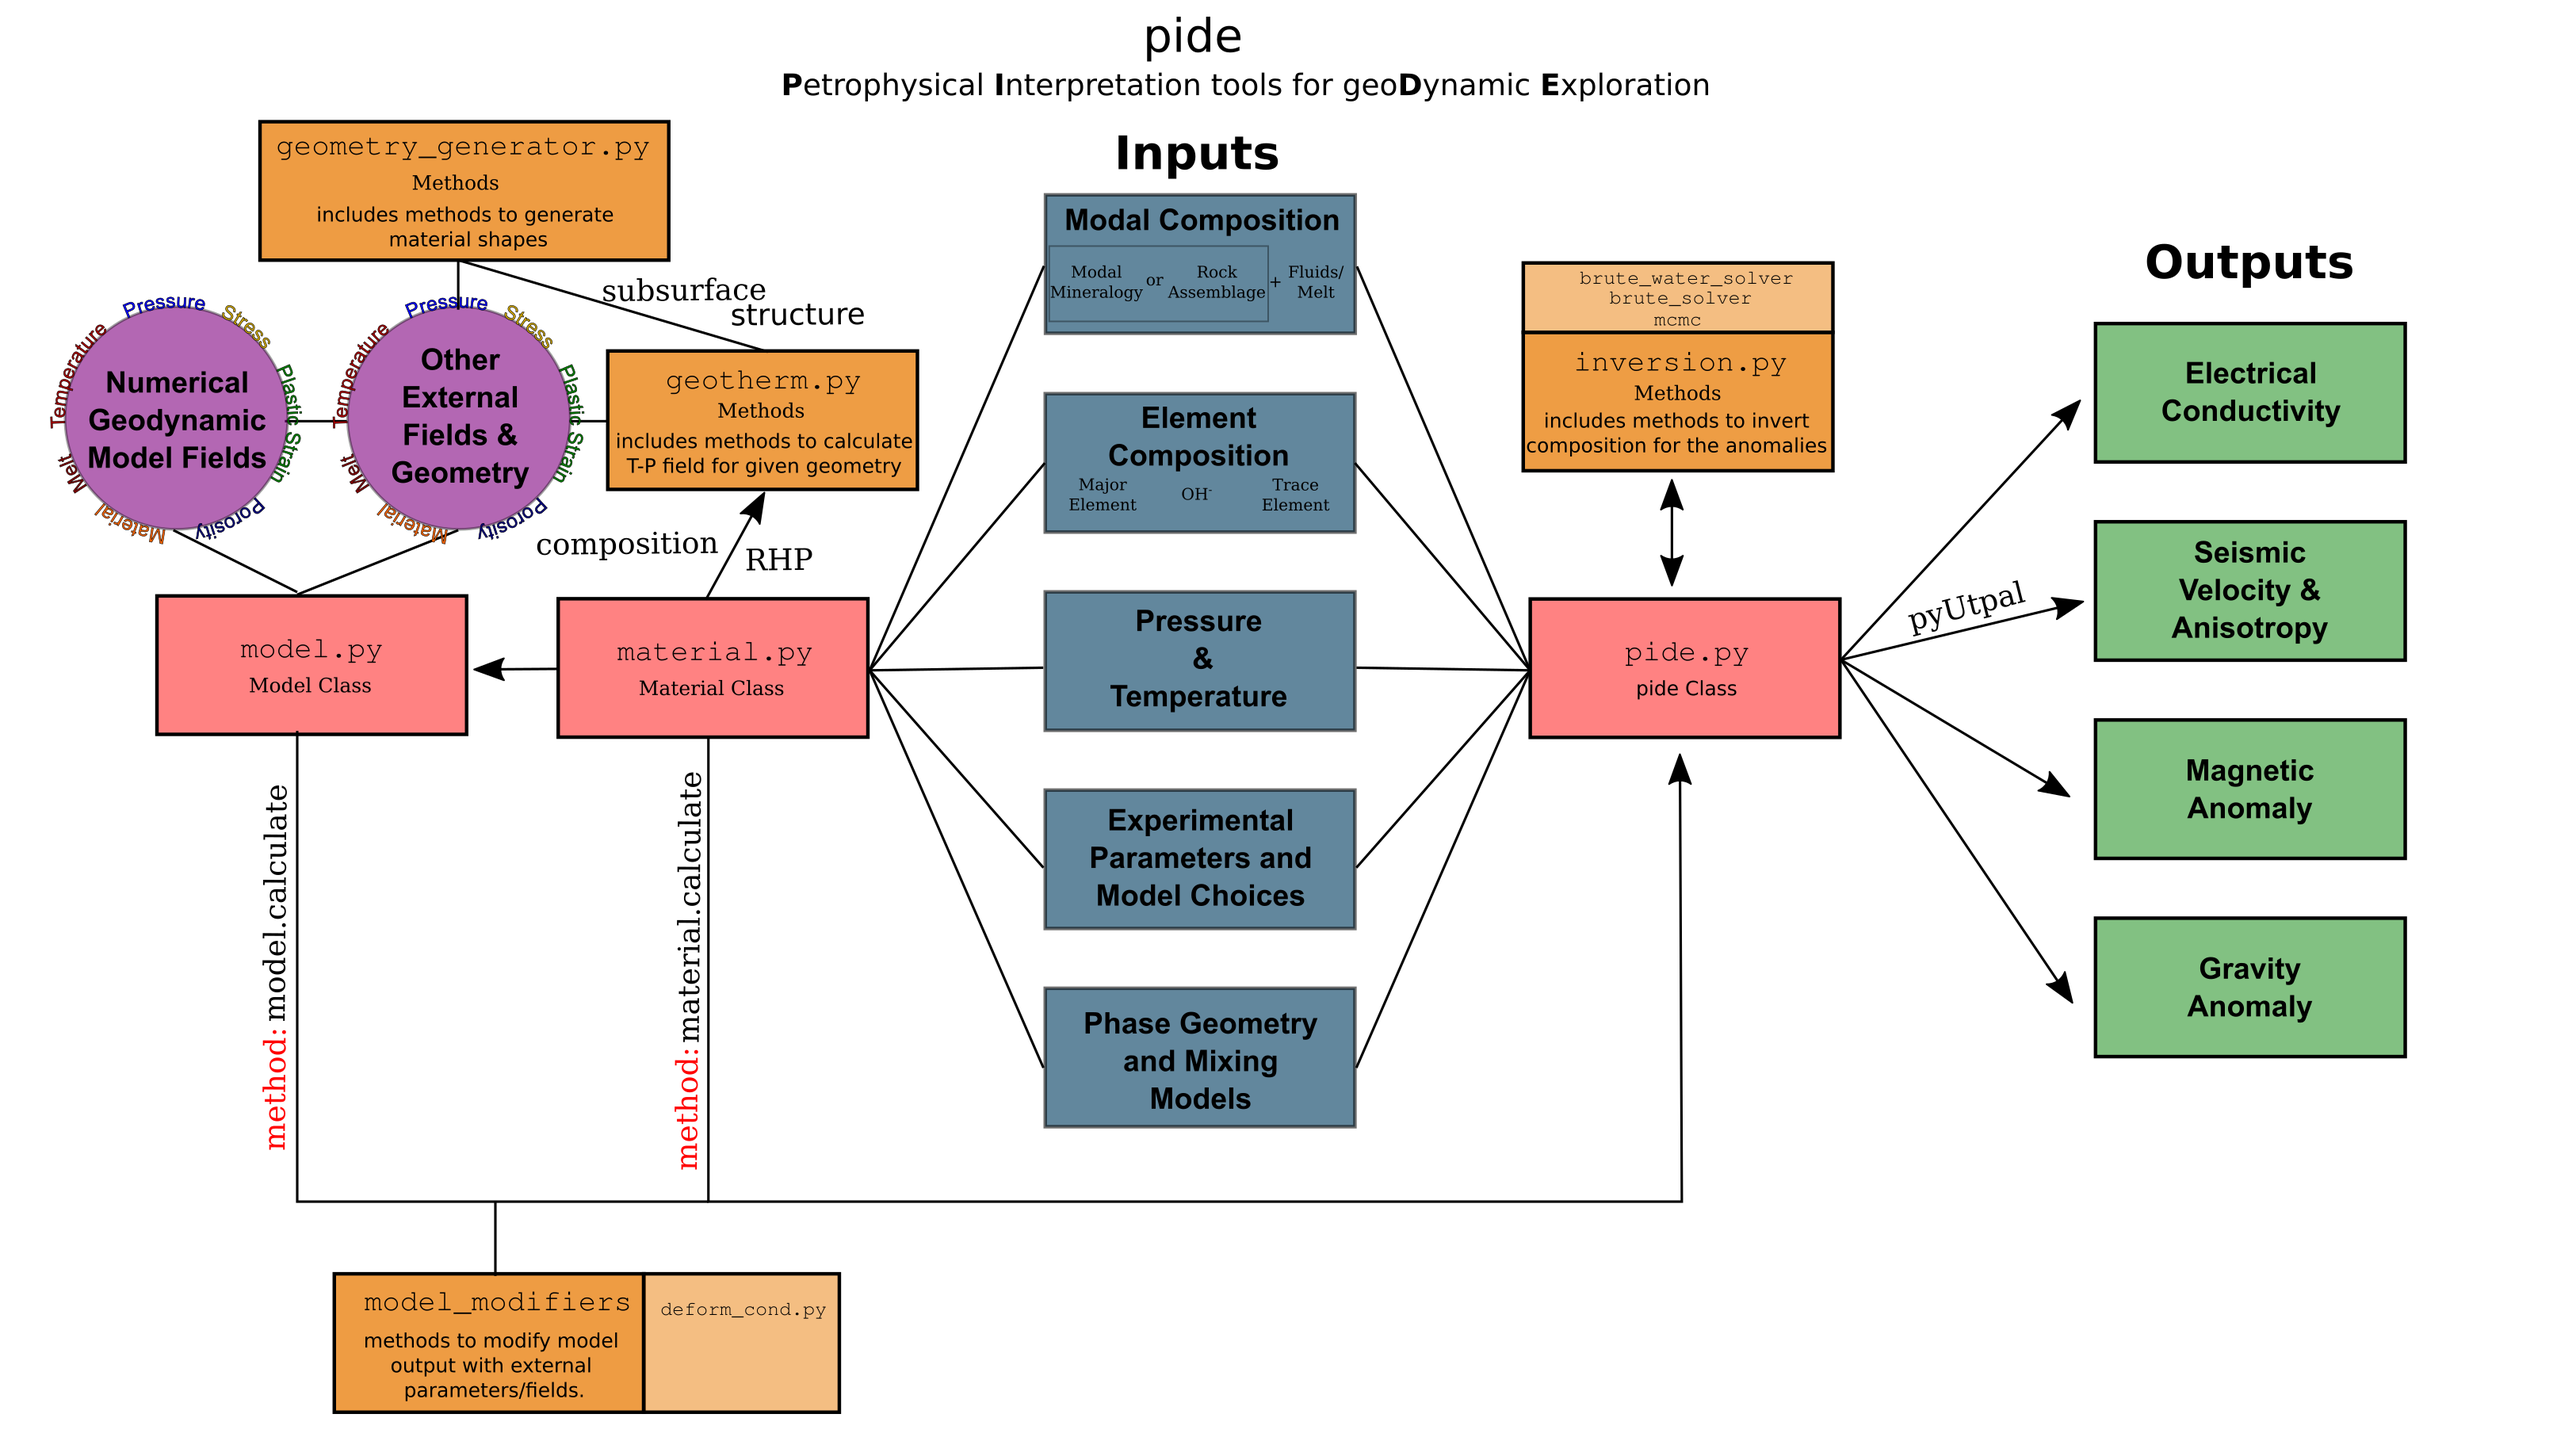
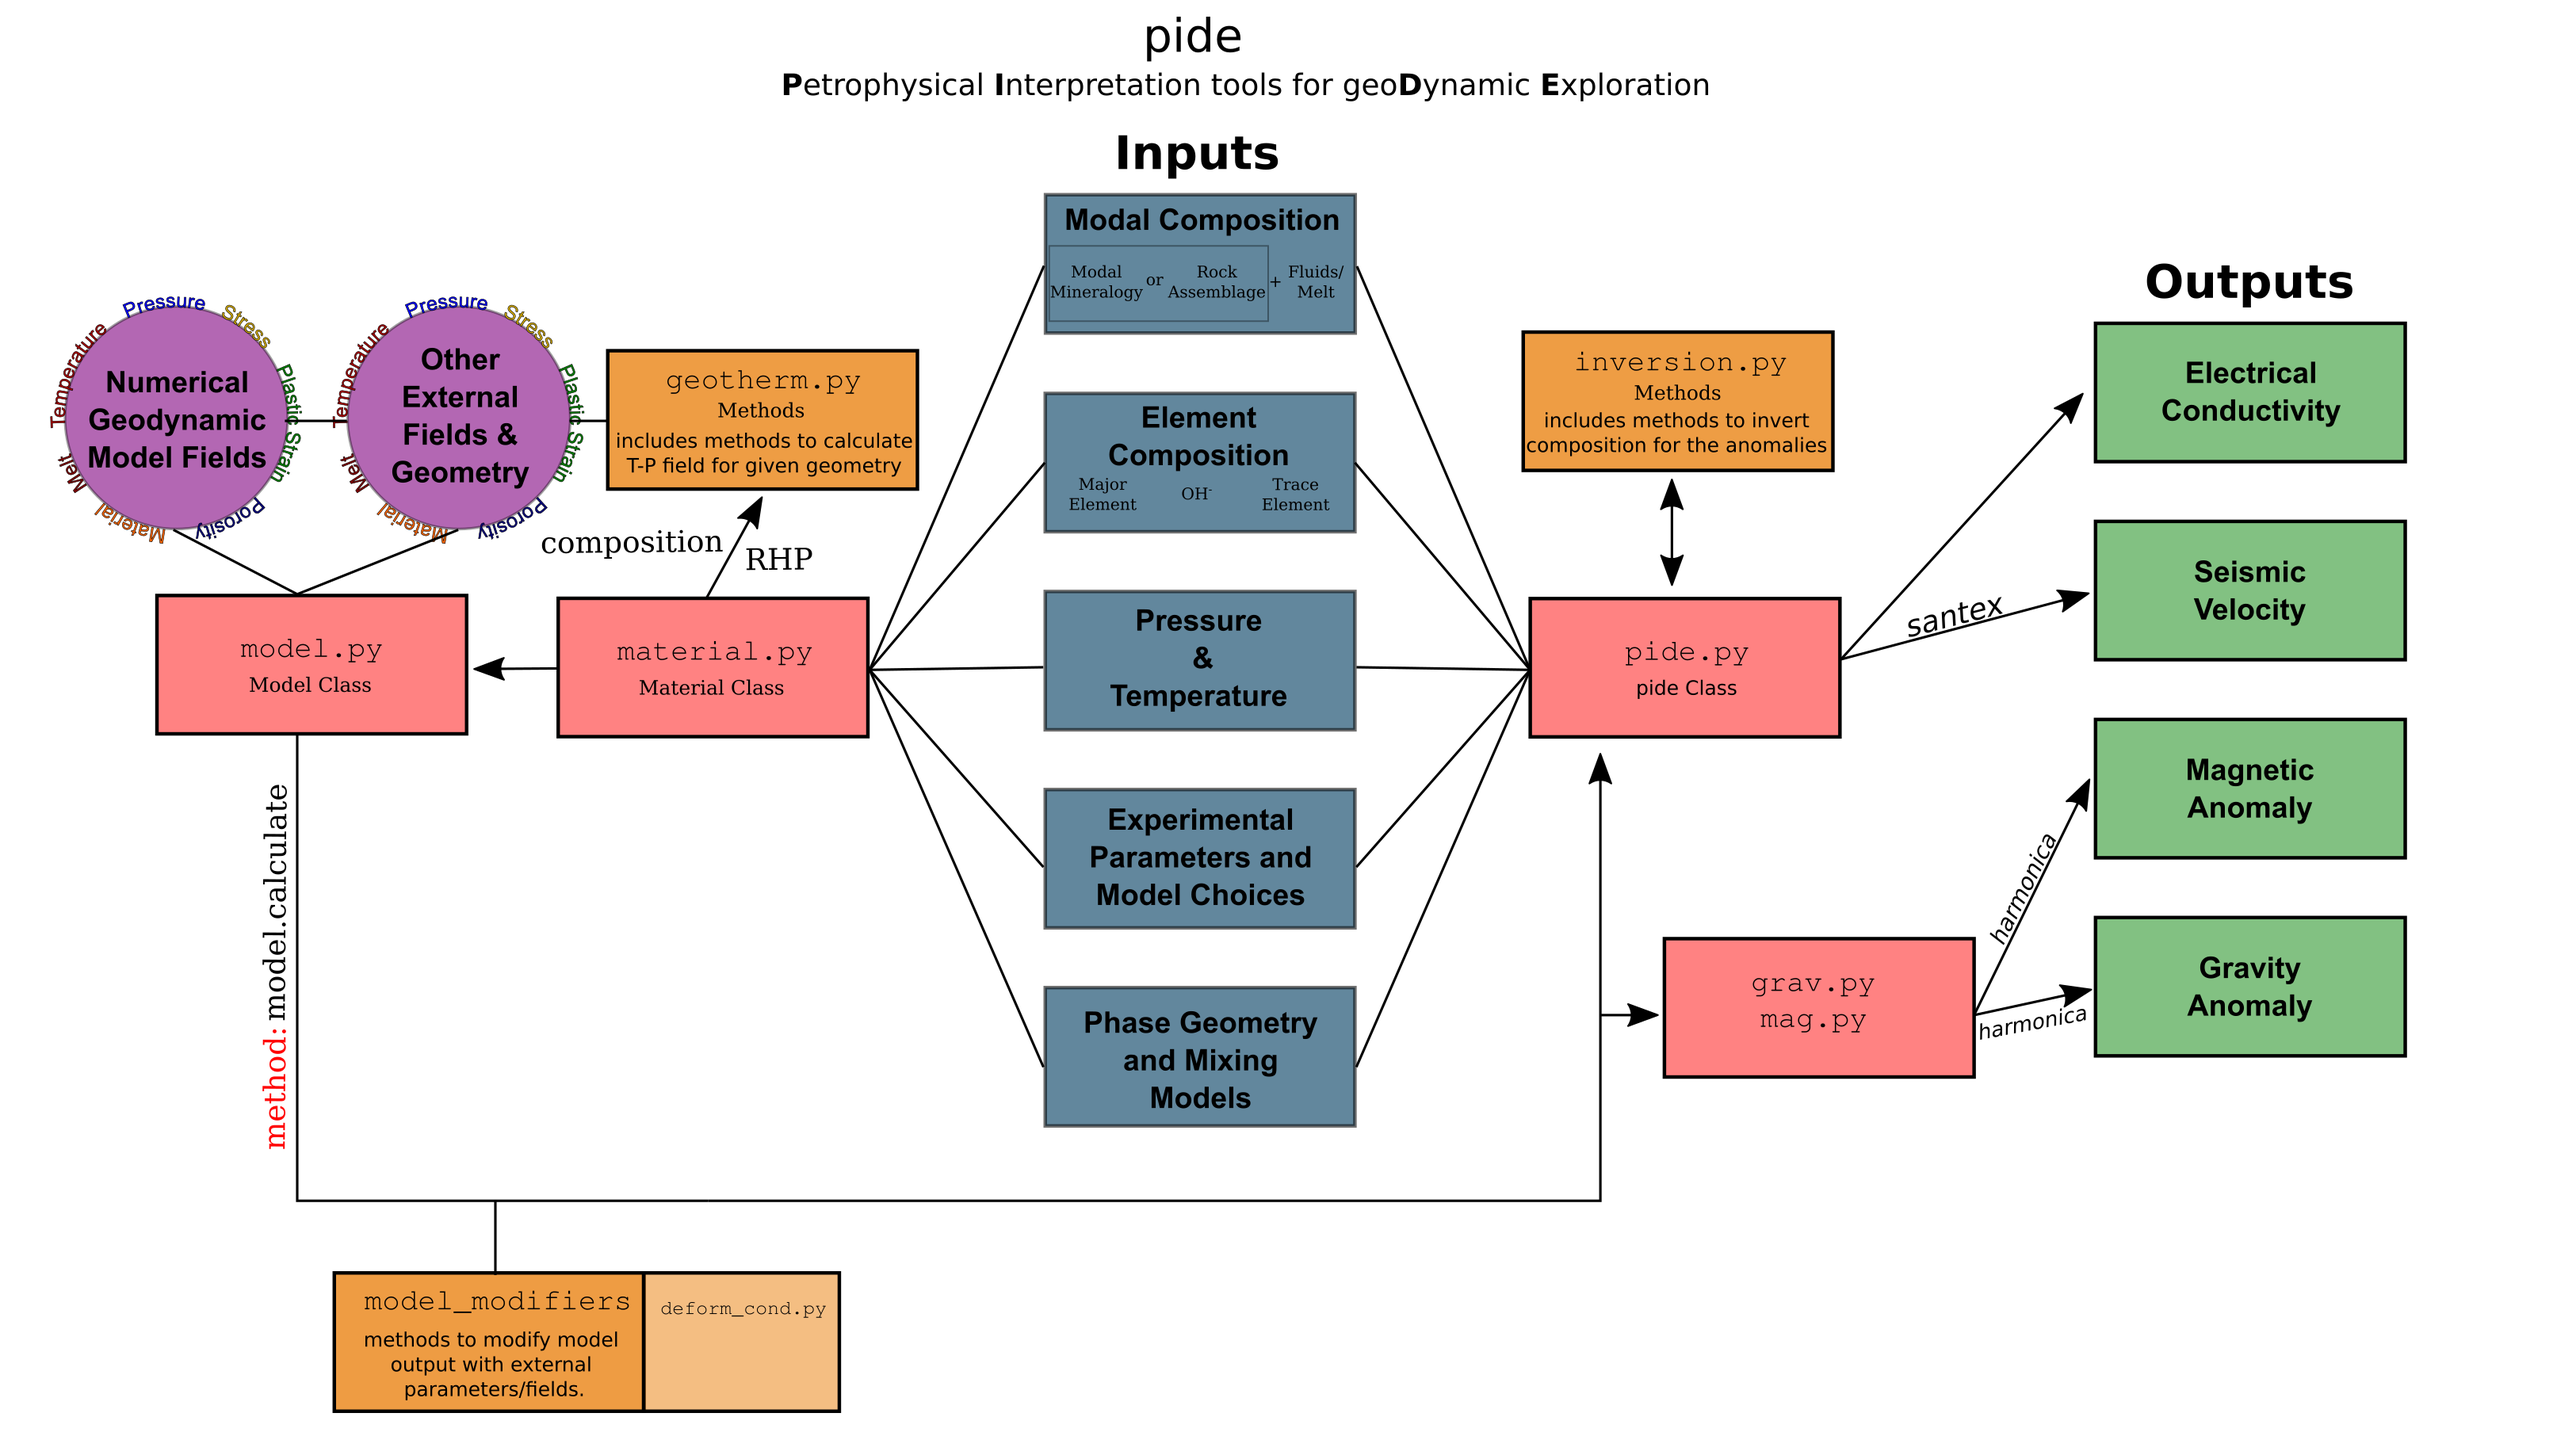
workflow diagram readme change

diff --git a/README.md b/README.md
@@ -2,15 +2,19 @@
 <img src="./docs/figures/pide_logo_0.png">
 
 # About
-*pide* is a Python3 library for calculating geophysical parameters (e.g., electrical conductivity, seismic velocity), employing the results from experimental petrology, mineral/rock physics, and thermomechanical modelling studies. *pide* can calculate the theoretical electrical conductivity of any earth material that exists in the literature. *pide* can also calculate seismic velocity utilising the external 'sister' library *satex*. Using these theoretical calculations, users can utilise inversion modules to decode geophysical anomalies compositionally or convert thermomechanical models into geophysical observables. With a given spatial mapping of earth materials, which can preferentially be loaded from a thermomechanical model, *pide*  can be used to build synthetic electrical conductivity and seismic velocity models and generate gravity and magnetic anomalies. Moreover, it is built as a modular tool, so users can easily build their functions.
+*pide* is a Python3 library for calculating geophysical parameters (e.g., electrical conductivity, seismic velocity), employing the results from experimental petrology, mineral/rock physics, and thermomechanical modelling studies. *pide* can calculate the theoretical electrical conductivity of any earth material that exists in the literature. *pide* can also calculate seismic velocity utilising the external 'sister' library *santex*. Using these theoretical calculations, users can utilise inversion modules to decode geophysical anomalies compositionally or convert thermomechanical models into geophysical observables. With a given spatial mapping of earth materials, which can preferentially be loaded from a thermomechanical model, *pide*  can be used to build synthetic electrical conductivity and seismic velocity models and generate gravity and magnetic anomalies. Moreover, it is built as a modular tool, so users can easily build their functions.
 
 # Installation
 
 `> pip install pide`
 
-or alternatively, go to directory and:
+or alternatively, go to directory through terminal and perform:
 
 `> pip install .`
+
+If you want to help develop and change code as it is being used:
+
+`> pip install -e .`
 
 # How to Cite
 
